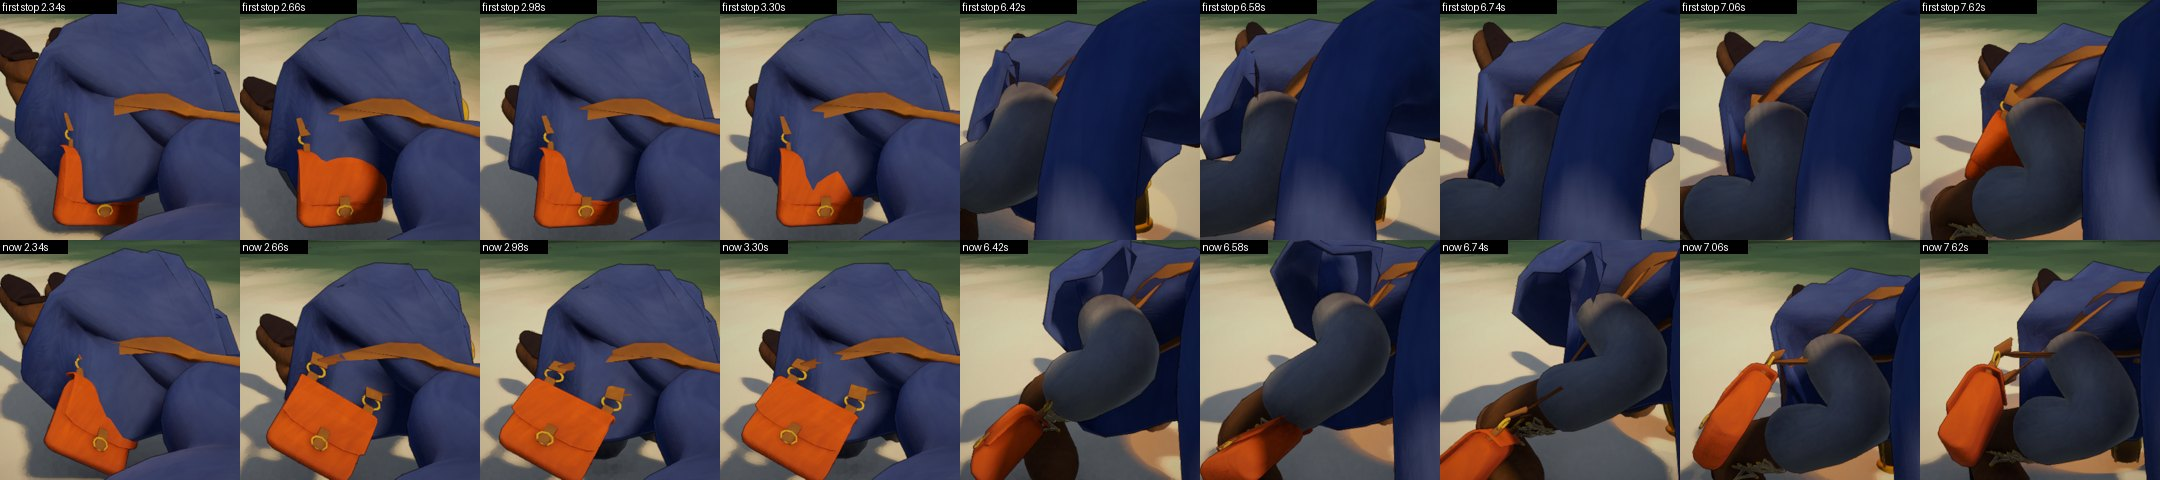
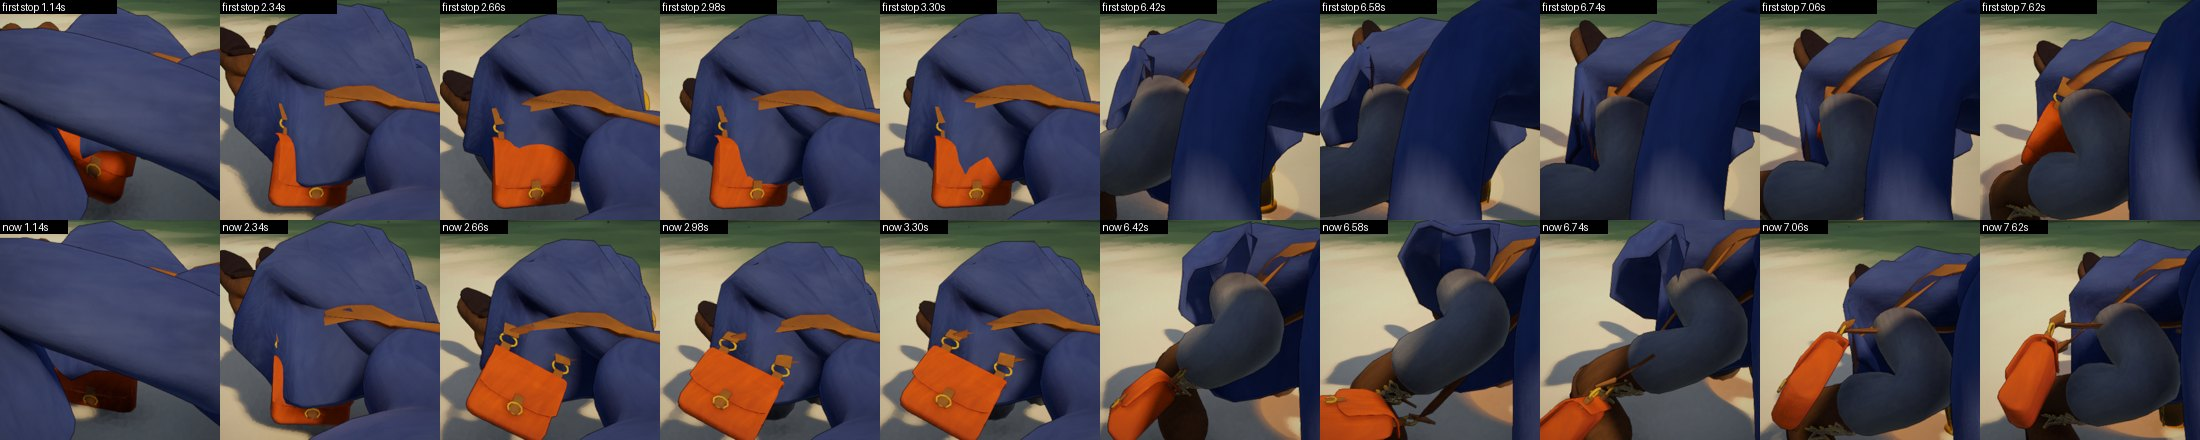
The satchel lies on the body: measured again with the lying flip mended, the whole suite, and the docs
Read on 3827f98 (one run each, the isolated copy, October 20):
- The whole PlayMode suite, no filter: 206 tests, 177 passed, 0 failed, 29 run only
  when asked.
- HungThingTests 4 of 4; walking frame by frame against the stop before October 15:
  the satchel 2.58 mm at most (4 frames of 715), its rings 0, the others 0.14 mm.
- The judges' try: a tenth of the satchel under the clothes in 5 frames of 158 (the
  first stop: 101); lying, it stays on the ground beside the hip.
- Falls and work against the first stop, run the same day: in Validation.

Docs: Validation (the satchel lies on the body), the current state, the judges' page
(finding 2 mended), UnityProjectContext (the hem's gate); before-and-after pictures now
of this version. Still open: the hips leaving the ground (2.2 to 2.4 s), the boot
grazing the bag, the strap's end; where this and the "hung things" branch change the
same code is written in Validation.

diff --git a/Docs/Validation.md b/Docs/Validation.md
@@ -3629,3 +3629,110 @@ judges' verdict is not his.**
   - Long and Round on the work branch's getting up (it is Small's way);
   - a build; the game as played beyond standing by its own joints;
   - how it looks, by Luis.
+
+## The satchel lies on the body — October 20
+
+The two things the satchel's judges (round 1) still saw after the first stop:
+the coat's hem across the bag's top as Small pushes onto hands and knees, and
+the bag lost behind the thigh and the skirt's flap as a foot comes forward.
+Branch `claude/satchel-lies` (on `claude/satchel-stop`), isolated copy
+`D:/Dev/WG-bag`, Unity 6000.6.0f1; begun October 15 (night), finished October
+20. **Not merged, not in a build, not pushed. Luis has not seen it; the
+judges' verdict is not his.**
+
+- **Measured on the skin, outside the game** (scratch, not committed: the body's
+  skin round the bag dumped each frame, and `ClothesDepth` ported to numpy,
+  checked to give the game's own numbers to the tenth of a millimetre):
+  - on hands and knees the skirt bulges **15 to 40 mm out over the rings
+    themselves**: no turning of the bag about its rings could keep its top out;
+  - the bag was also turned about the way it hangs with its end, not its back,
+    to the coat (40° to 80° off);
+  - with a foot brought forward the thigh passes **within 1 cm of where the
+    rings are fixed to the hips**, and the shin and boot swing through the bag
+    (the skin measure leaves out the shins and boots; measured from the shin's
+    line against its thickness on the skin, 50 to 56 mm).
+- **What was built** (`MinerBody`, for a thing on a strap only, that is with no
+  `riders`: today Small's satchel; the lantern, the mug and the hammer are
+  untouched):
+  - its rings ride out of what comes up under them (the cloth, a thigh drawn
+    up past a stride, its shin as the knee comes up by them), eased;
+  - its weight rests on the flap as the flap's whole turn carries it, the cloth
+    coming in eased, only as the flap's hem leaves the ground and not once it is
+    folded back past the hips' face;
+  - a drawn-up thigh keeps it off from 15% of its length down (not a sphere
+    round the hip joint), and its shin and boot keep it off, out to its own
+    side (the trousers' thickness as the model makes them);
+  - it turns about the way it hangs to face what holds it (the drawn-up thigh's
+    way out, else the cloth), eased and no faster than 360° a second;
+  - in a stride none of this acts.
+- **Tried and dropped, with why:** the flap's face alone (share 1) for the
+  rings (rode them out 40 to 165 mm where the bag was already clear); the bag
+  turned to face the cloth on hands and knees (facing the thigh's way out, with
+  the rings 20 mm further off it, fits the skin better: 181 points under the
+  clothes over the try, against 1662 facing the cloth); the shin's
+  push the nearest way (threw the bag 2600° a second as the boot passed) and
+  remembered sides (pushed it into the skirt); the fold of the flap alone as
+  the cloth's gate (lying face down it let the cloth lift the bag onto the
+  coat's back: the judges' round 2, finding 2).
+- **The judges' try** (the work branch's getting up `dd30219`, its scripts copied
+  in for measuring only; one run each), a tenth or more of the satchel under the
+  clothes, 2.0 to 8.3 s: **5 frames of 158** (2.22 to 2.38 s, the hips leaving
+  the ground), against 101 with the first stop; its deepest point more than
+  20 mm under them in 6 against 104. Lying (0 to 2 s) it stays on the ground
+  beside the hip as with the first stop.
+  [Before and after, three views](Images/SatchelLies_2026-10-20/).
+- **Standing and walking, as before** (each miner standing 3 s, walking 6 m and
+  back with a turn, frame by frame against the stop as it was before October
+  15): Small's satchel 2.58 mm at most (4 frames of 715, the same frames as with
+  the first stop), its rings 0.00 mm, its back turned 1.6° at most; the lantern,
+  the mug and the hammer 0.14 mm at most; standing 0.00. A strap's rings ridden
+  and its bag turned to lie: 0.00 standing and walking, all three miners.
+  Standing by its own joints with life (as played), 6 s: the satchel 0.51 mm, the
+  others up to 2.28 mm (the lantern; the two runs' bodies stand a little
+  differently, and nothing of this change acts on the lantern).
+- **Falls** (`HungThingBench.Bowed`, Small, one course each way, the first stop
+  run the same day in the same copy): frames with the satchel more than 5 mm
+  under the clothes over a tenth of its points read, first stop → now:
+
+  | Pushed onto its | going over | curled | on hands and knees | up again |
+  |---|---|---|---|---|
+  | front | 5 → 5 of 93 | 13 → 11 of 57 | 10 → 11 of 65 | 8 → 7 of 38 |
+  | back | 6 → 7 of 31 | 9 → 6 of 46 | 11 → 10 of 70 | 8 → 10 of 38 |
+  | left | 6 → 5 of 73 | 9 → 5 of 103 | 9 → 10 of 67 | 8 → 5 of 38 |
+  | right (onto it) | 30 → 30 of 35 | 20 → 13 of 44 | 69 → 30 of 69 | 7 → 6 of 37 |
+
+  The version before the hem's gate (2b6b198) had curled 4, 2 and 3 of these;
+  the gate gives some of that back, lying low with the knees tucked.
+- **At work** (each miner goes down for a pickaxe and mines, 25 s): the satchel
+  under the clothes in its blows **288 → 53 of 529 frames**; the lantern, the
+  mug and the hammer as before (400, 405, 26).
+- **Tests** (`HungThingTests`, 4 of 4 pass, one run): pushed over its own falls,
+  the satchel through its clothes in 2 of 171 looks onto its front (first stop:
+  2), 8 of 123 onto its back (9), 3 of 159 onto its left (4); onto its right, 44
+  of 121 (52), told only. `StandingAndWalkingWhatHangsIsAsItWas` now also holds
+  that a strap's rings never ride and its bag never turns standing or walking.
+- **The whole PlayMode suite** (one run, no filter, in the isolated copy at
+  3827f98, October 20, 24 minutes; another session ran Unity beside it): **206
+  tests, 177 passed, 0 failed**, 29 run only when asked (the benches). With the
+  first stop: 206, 176, 1 (a stall, passed alone), 29. Not run: the suite as
+  played (`-ownAsPlayed 1`).
+- **Three judges, round 2** (new; the body, the animator, the sceptic; the
+  version before the hem's gate, three views): all three "reads as real, with a
+  flaw"; round 1's two findings not seen again
+  ([their page](Reviews/2026-10-20_SatchelLies_Judges.md)).
+- **Where this and the "hung things" session touch the same code:** its branch
+  `claude/hung-things-stop` (a ground stop, the thigh kept off a thing's whole
+  line) also changes `MinerBody.Hang`, `Held` (the call to the last word),
+  `OutOfBody`'s thigh and `CaptureRest`, and adds fields named `hangTwist` and
+  `hangPlace` meaning other things. Bringing both in needs that code merged by
+  hand.
+- **Not mended, or not tested:**
+  - the hips leaving the ground (2.18 to 2.42 s): the bag sits on the ground under
+    the skirt's hem as the hips lift, then comes out in one step (all three
+    judges); the first stop had it too;
+  - the boot's top grazes the bag's edge for about 0.4 s as the foot swings
+    forward; the strap's end follows the rings, which ride out up to 10 cm, and
+    may look cut by the coat or go into the knee (not checked);
+  - lying on it and lying face down, the bag goes into the ground, as before;
+  - Long and Round have nothing on a strap; the work branch's getting up for
+    them; a build; how it looks, by Luis.

diff --git a/Docs/Reviews/2026-10-20_SatchelLies_Judges.md b/Docs/Reviews/2026-10-20_SatchelLies_Judges.md
@@ -27,13 +27,15 @@ the thigh and boot in the hold.
 
 | | Finding | Judges | Checked | What is to be done |
 |---|---|---|---|---|
-| 1 | **Under the skirt's hem, then out in one step**, 2.18–2.42 s (the hips leaving the ground) | all three | **True.** The skin measure has a tenth or more of the bag under the clothes at 2.22–2.38 s; it then turns about 45° in 0.04 s | **Open.** Known before the round |
-| 2 | **On top of the coat's back at 1.22 s**, lying (outside the sheets' close window) | all three (as "may be the picture") | **True, and new: my change caused it.** Lying face down (0.98–1.3 s), the flap's face still comes in partly and lifts the bag 8 cm off the ground and turns it 120°; with the first stop it lay on the ground beside the hip | **Open, must be mended before anything else.** Being measured: the flap's fold and its hem's height over the ground, to let the cloth carry the bag only once its hem is off the ground |
+| 1 | **Under the skirt's hem, then out in one step**, 2.18–2.42 s (the hips leaving the ground) | all three | **True.** The skin measure has a tenth or more of the bag under the clothes at 2.22–2.38 s; it then turns about 45° in 0.04 s | **Open.** Known before the round. The first stop had it too. No gate on the flap's fold or hem tells this moment from lying (the hem is 0.79 here, 0.76 lying): the bag sits on the ground under the hem as the hips lift. After 3827f98 the same 5 frames, deeper at 2.26–2.34 s |
+| 2 | **On top of the coat's back at 1.22 s**, lying (outside the sheets' close window) | all three (as "may be the picture") | **True, and new: my change caused it.** Lying face down (0.98–1.3 s), the flap's face still comes in partly and lifts the bag 8 cm off the ground and turns it 120°; with the first stop it lay on the ground beside the hip | **Mended (3827f98):** the cloth carries the bag only once the flap's hem is off the ground (lying, the hem is 0.52 to 0.76 flap lengths over it; on hands and knees 1.13 and more). Lying, the bag now stays on the ground beside the hip with the skirt's edge over it, as with the first stop (pictured; it goes into the ground there, as before: the other session's ground stop) |
 | 3 | The boot and the bag meet as the foot comes forward, 6.34–6.82 s; through or beside cannot be told from one side | body, animator (sceptic: the shin knocks it) | **True in part:** measured from the shin's line, the boot's top crosses the bag's edge for about 0.4 s (the skin measure leaves out shins and boots) | Open |
 | 4 | The strap looks cut by the coat (2.3–3.7 s); its end goes into the folded knee (6.9–8.2 s) | sceptic, body (strap, "may be the picture") | Not checked yet. The strap's end follows the rings, which now ride out up to 10 cm | Open |
 | 5 | Dead still in the holds (2.98–3.54, 7.3–12 s); settles without swinging back | all three | True that it does not move while the body is still | Not changed: life at rest stays small (Luis, October 10); the swing's damping is as modelled |
 
 ## Next
 
-Mend finding 2 first, then 1; measure again (falls, work, walks), run the whole
-suite, and only then a round 3 (the last) with new judges.
+Finding 2 mended (3827f98), measured again (falls, work, walks) and the whole
+suite run ([Validation](../Validation.md#the-satchel-lies-on-the-body--october-20)).
+Findings 1, 3 and 4 are open; a round 3 (the last) with new judges only after
+one of them is mended, and the pictures shown to Luis first.

diff --git a/Docs/CURRENT_STATE.md b/Docs/CURRENT_STATE.md
@@ -1,21 +1,28 @@
 # Wonder Gather — Current State
 
-**Updated:** October 15, 2026.
+**Updated:** October 20, 2026.
 
-- **The satchel through the coat (the judges of the getting up, finding 4),
-  partly mended on its own branch `claude/satchel-stop`, not merged, not in a
-  build** ([what was found and how it was tested](Validation.md#hung-things-stopped-however-the-body-is-turned--october-15);
-  [before and after](Images/SatchelStop_2026-10-15/);
-  [its judges](Reviews/2026-10-15_SatchelStop_Judges.md)). Whatever way the
-  body is turned, what hangs on a hook is now stopped by the hips, by the
-  cloth it rests on and by the thigh on its side; standing and walking it
-  hangs and swings as before (2.6 mm at most). Three judges: "reads as real,
-  with a flaw". **Still open:** the coat still cuts the bag's top as it
-  pushes onto hands and knees (the bag is held out by its weight, but turned
-  rigidly about its rings); the bag is lost behind the thigh as a foot comes
-  forward; a fall onto the bag; Small's lantern, Long's mug and Round's
-  hammer, which read inside the coat when bowed, as before. For Luis to look
-  at.
+- **The satchel lies on the body (October 20), on its own branch
+  `claude/satchel-lies` (on `claude/satchel-stop`), not merged, not pushed, not
+  in a build** ([what was found and how it was tested](Validation.md#the-satchel-lies-on-the-body--october-20);
+  [first stop and now, three views](Images/SatchelLies_2026-10-20/);
+  [its judges, round 2](Reviews/2026-10-20_SatchelLies_Judges.md)). Round 1's
+  two flaws are gone: on hands and knees the bag no longer has the coat across
+  its top, and as a foot comes forward it is no longer lost behind the thigh.
+  Its rings ride out on what comes up under them (the coat's skirt bulged 15 to
+  40 mm over them; the drawn-up thigh came within a centimetre), it turns to lay
+  its back on what holds it, and the thigh, shin and boot keep it off. In the
+  judges' try a tenth of it is under the clothes in 5 frames of 158 (the first
+  stop: 101); at work 53 of 529 (288). Standing and walking as before, frame by
+  frame; the lantern, mug and hammer untouched. The whole suite: 206, 177
+  passed, 0 failed. Three new judges (on the version before the lying flip was
+  mended): "reads as real, with a flaw". **Still
+  open:** as the hips leave the ground (2.2 to 2.4 s) the bag sits under the
+  skirt's hem and comes out in one step (the first stop too); the boot's top
+  grazes it for about 0.4 s as the foot swings forward; the strap's end may look
+  cut by the coat (not checked); lying, it goes into the ground, as before. The
+  "hung things" session changes the same code (`MinerBody`): merging both is by
+  hand. For Luis to look at.
 - **A build for Luis to play, October 14 (late): `Builds/WindowsOrdinaryPlace_Oct14`**
   (beside the three of October 13). In it: arms as strong as the body needs
   (Luis's decision), tiredness taking precision, breaths between blows. The

diff --git a/Docs/Technical/UnityProjectContext.md b/Docs/Technical/UnityProjectContext.md
@@ -1059,8 +1059,12 @@ the round's log is in
       turn), a thigh drawn up past a stride (from `ThighFrom` of its
       length, `hangLegGathered` + `SkirtGathered`, out to its side), and its
       shin as the knee comes up by them. Eased over `RidesIn`; the cloth's
-      coming in for a strap thing is eased too (`hangComes`, `ClothSettles`)
-      and goes as the flap folds back past `FoldsFrom` (lying).
+      coming in for a strap thing is eased too (`hangComes`, `ClothSettles`),
+      goes as the flap folds back past `FoldsFrom`, and comes only as the
+      flap's hem leaves the ground (`HemUp`, `HemFrom` to `HemBy` flap
+      lengths, the ground as `Drape` reckons it): lying face down, the flap
+      lies on the ground beside the bag, and letting it in there lifted the
+      bag onto the coat's back (the judges of the satchel, round 2).
     - `OutOfBody`: its weight rests on the flap as the flap's whole turn
       carries it (`Cloth(..., whole)`); the drawn-up thigh keeps it from
       `ThighFrom` down; its shin and boot keep it off (`Shin`: the
@@ -1082,7 +1086,8 @@ the round's log is in
     was last posed, as one moment (`HangingIntoBody` against the hips' face,
     and the cloth's once it has come in); `ClothTurned` how far the cloth a
     thing rests on has turned from as modelled; `HangingBack` which way its
-    back faces; `ClothFace` the cloth face that stops it now. `ClothesDepth`
+    back faces; `ClothFace` the cloth face that stops it now; `ClothFolded`
+    and `ClothHemUp` how far its flap is folded back and how high its hem is. `ClothesDepth`
     (tests) reads from the skin itself how far a hung thing is under the
     clothes of the hips, thighs and skirt (not the shins or boots), and
     gives its points and the body's triangles near a place (`Point`,
